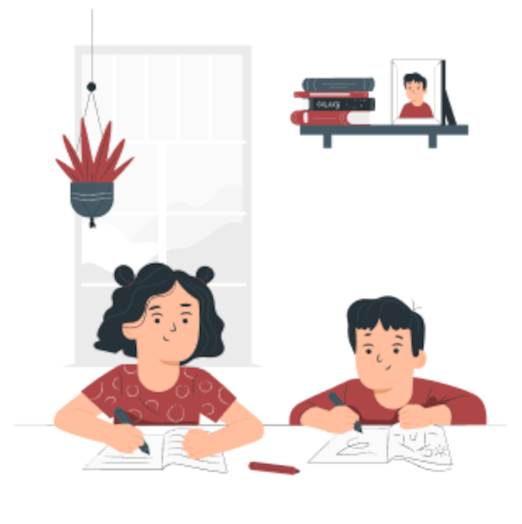
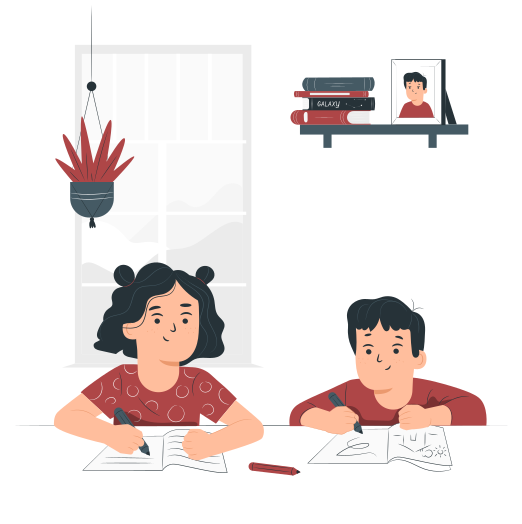
fix: images optimization and sizing

diff --git a/src/components/Header/index.tsx b/src/components/Header/index.tsx
@@ -1,14 +1,14 @@
-import { useState } from "react";
-import { Modal } from "@mui/material";
+import { useState } from 'react';
+import { Modal } from '@mui/material';
 
-import * as S from "./styles";
-import logotipo from "../../assets/logotipo.svg";
-import kidsStudying from "../../assets/kids_studying.png";
-import WomanPhone from "../../assets/woman-phone.png";
-import NavButton from "../NavButton";
-import HeaderMobile from "../HeaderMobile";
-import { useLocation, useNavigate } from "react-router-dom";
-import { Button } from "../Button";
+import * as S from './styles';
+import logotipo from '../../assets/logotipo.svg';
+import kidsStudying from '../../assets/kids_studying.webp';
+import WomanPhone from '../../assets/woman-phone.png';
+import NavButton from '../NavButton';
+import HeaderMobile from '../HeaderMobile';
+import { useLocation, useNavigate } from 'react-router-dom';
+import { Button } from '../Button';
 
 export const Header = () => {
   const [openMenu, setOpenMenu] = useState<boolean>(false);
@@ -18,8 +18,8 @@ export const Header = () => {
 
   const { pathname } = useLocation();
   const navigate = useNavigate();
-  const aluno = localStorage.getItem("aluno");
-  const admin = localStorage.getItem("admin");
+  const aluno = localStorage.getItem('aluno');
+  const admin = localStorage.getItem('admin');
 
   function toggleMenu() {
     setOpenMenu((state) => !state);
@@ -69,7 +69,7 @@ export const Header = () => {
           </S.ModalContainer>
         </Modal>
 
-        <S.Link to={"/"} aria-label="Pagina inícial">
+        <S.Link to={'/'} aria-label="Pagina inícial">
           <img
             width="227"
             height="49"
@@ -80,7 +80,7 @@ export const Header = () => {
 
         <S.Navigation>
           <ul>
-            {pathname !== "/" && (
+            {pathname !== '/' && (
               <li>
                 <NavButton backgroundcolor="red-dark" color="blue-light" to="/">
                   Início
@@ -88,7 +88,7 @@ export const Header = () => {
               </li>
             )}
 
-            {pathname !== "/sala-de-aula" && admin && (
+            {pathname !== '/sala-de-aula' && admin && (
               <li>
                 <NavButton
                   backgroundcolor="red-dark"
@@ -100,7 +100,7 @@ export const Header = () => {
               </li>
             )}
 
-            {pathname !== "/painel-de-controle" && admin && (
+            {pathname !== '/painel-de-controle' && admin && (
               <li>
                 <NavButton
                   backgroundcolor="red-dark"
@@ -112,7 +112,7 @@ export const Header = () => {
               </li>
             )}
 
-            {pathname !== "/login" && !admin && (
+            {pathname !== '/login' && !admin && (
               <li>
                 <S.LoginButton
                   backgroundcolor="purple-light"
@@ -123,7 +123,7 @@ export const Header = () => {
                 </S.LoginButton>
               </li>
             )}
-            {pathname !== "/cadastro" && !admin && (
+            {pathname !== '/cadastro' && !admin && (
               <li>
                 <NavButton
                   backgroundcolor="red-dark"
@@ -139,8 +139,8 @@ export const Header = () => {
                 <Button
                   backgroundcolor="red-dark"
                   onClick={() => {
-                    localStorage.removeItem("admin");
-                    navigate("/");
+                    localStorage.removeItem('admin');
+                    navigate('/');
                   }}
                 >
                   Sair
@@ -151,7 +151,7 @@ export const Header = () => {
         </S.Navigation>
         <HeaderMobile toggleMenu={toggleMenu} open={openMenu}>
           <S.MobileNavigation>
-            {pathname !== "/" && (
+            {pathname !== '/' && (
               <li>
                 <NavButton
                   backgroundcolor="white"
@@ -163,7 +163,7 @@ export const Header = () => {
                 </NavButton>
               </li>
             )}
-            {pathname !== "/sala-de-aula" && aluno && (
+            {pathname !== '/sala-de-aula' && aluno && (
               <li>
                 <NavButton
                   backgroundcolor="white"
@@ -175,7 +175,7 @@ export const Header = () => {
                 </NavButton>
               </li>
             )}
-            {pathname !== "/sala-de-aula" && admin && (
+            {pathname !== '/sala-de-aula' && admin && (
               <li>
                 <NavButton
                   backgroundcolor="white"
@@ -187,7 +187,7 @@ export const Header = () => {
                 </NavButton>
               </li>
             )}
-            {pathname !== "/painel-de-controle" && admin && (
+            {pathname !== '/painel-de-controle' && admin && (
               <li>
                 <NavButton
                   backgroundcolor="white"
@@ -199,7 +199,7 @@ export const Header = () => {
                 </NavButton>
               </li>
             )}
-            {pathname !== "/login" && !aluno && !admin && (
+            {pathname !== '/login' && !aluno && !admin && (
               <li>
                 <S.LoginButton
                   backgroundcolor="white"
@@ -210,7 +210,7 @@ export const Header = () => {
                 </S.LoginButton>
               </li>
             )}
-            {pathname !== "/cadastro" && !admin && (
+            {pathname !== '/cadastro' && !admin && (
               <li>
                 <NavButton
                   backgroundcolor="white"
@@ -228,8 +228,8 @@ export const Header = () => {
                   backgroundcolor="white"
                   color="purple-light"
                   onClick={() => {
-                    localStorage.removeItem("admin");
-                    navigate("/");
+                    localStorage.removeItem('admin');
+                    navigate('/');
                   }}
                 >
                   Sair

diff --git a/src/pages/app/Home/styles.ts b/src/pages/app/Home/styles.ts
@@ -1,6 +1,6 @@
-import styled from "styled-components";
-import { Button } from "../../../components/NavButton/styles";
-import { colors } from "../../../@types/colors";
+import styled from 'styled-components';
+import { Button } from '../../../components/NavButton/styles';
+import { colors } from '../../../@types/colors';
 
 type Heading = {
   color: keyof colors;
@@ -36,7 +36,7 @@ export const Heading = styled.h2<Heading>`
 `;
 
 export const Paragraph = styled.p<Paragraph>`
-  color: ${(props) => props.theme[props.color || "blue-dark"]};
+  color: ${(props) => props.theme[props.color || 'blue-dark']};
   font-weight: 500;
 `;
 
@@ -52,7 +52,7 @@ export const Hero = styled.section`
     flex-basis: 25rem;
 
     > h1 {
-      color: ${(props) => props.theme["purple-light"]};
+      color: ${(props) => props.theme['purple-light']};
       font-size: 2.25rem;
     }
 
@@ -73,12 +73,14 @@ export const Hero = styled.section`
       aspect-ratio: 445/485;
       width: 100%;
       max-width: 445px;
+      object-fit: cover;
+      max-height: 400px;
     }
   }
 `;
 
 export const OurCommitment = styled.section`
-  background-color: ${(props) => props.theme["blue-light"]};
+  background-color: ${(props) => props.theme['blue-light']};
 `;
 
 export const CommitmentContainer = styled.div`
@@ -96,6 +98,7 @@ export const CommitmentContainer = styled.div`
     margin: 0 auto;
     width: min(100%, 400px);
     aspect-ratio: 400/401;
+    object-fit: cover;
   }
 `;
 
@@ -122,7 +125,7 @@ export const DataTitle = styled.div`
 
   span {
     display: block;
-    color: ${(props) => props.theme["purple-light"]};
+    color: ${(props) => props.theme['purple-light']};
   }
 `;
 
@@ -186,6 +189,7 @@ export const FacilityAndSecurity = styled.section`
     > img {
       max-width: 100%;
       aspect-ratio: 442/435;
+      object-fit: cover;
     }
   }
 `;
@@ -193,7 +197,7 @@ export const FacilityAndSecurity = styled.section`
 export const AdvantagesAndBenefits = styled.section`
   margin: 0 auto;
   text-align: center;
-  background-color: ${(props) => props.theme["blue-light"]};
+  background-color: ${(props) => props.theme['blue-light']};
 
   h2 {
     margin-bottom: 2.5rem;

diff --git a/src/pages/app/Home/index.tsx b/src/pages/app/Home/index.tsx
@@ -8,18 +8,18 @@ import {
   CastForEducation,
   Diversity1,
   AccessTime,
-} from "@mui/icons-material";
+} from '@mui/icons-material';
 
-import * as S from "./styles";
-import NavButton from "../../../components/NavButton";
-import kidReading from "../../../assets/kid-reading.webp";
-import womanPhone from "../../../assets/woman-phone.png";
-import kidsStudyingResized from "../../../assets/kids_studying-resized.png";
-import kidReadingMobile from "../../../assets/kid-reading-mobile.webp";
+import * as S from './styles';
+import NavButton from '../../../components/NavButton';
+import kidReading from '../../../assets/kid-reading.webp';
+import womanPhone from '../../../assets/woman-phone.png';
+import kidsStudyingResized from '../../../assets/kids_studying-resized.png';
+import kidReadingMobile from '../../../assets/kid-reading-mobile.png';
 
 export const Home = () => {
   const iconsSize = {
-    fontSize: "48px",
+    fontSize: '48px',
   };
 
   return (
@@ -73,7 +73,7 @@ export const Home = () => {
                 educacional global. Juntos, estamos construindo um caminho
                 sólido para a realização do ODS 4.6.
               </S.Paragraph>
-              <NavButton backgroundcolor="red-dark" to={"/cadastro"}>
+              <NavButton backgroundcolor="red-dark" to={'/cadastro'}>
                 Saiba mais
               </NavButton>
             </S.InfoContainer>

diff --git a/README.md b/README.md
@@ -67,7 +67,7 @@ Criar um website de alfabetização digital para contribuir com os Objetivos do 
 
 ### Paleta de Cores
 
-<img src="./src/assets/paleta_cores.png" alt="paleta de cores utilizada no projeto" title="Paleta de Cores">
+<img src="./src/assets/paleta_cores.webp" alt="paleta de cores utilizada no projeto" title="Paleta de Cores">
 
 ---
 
